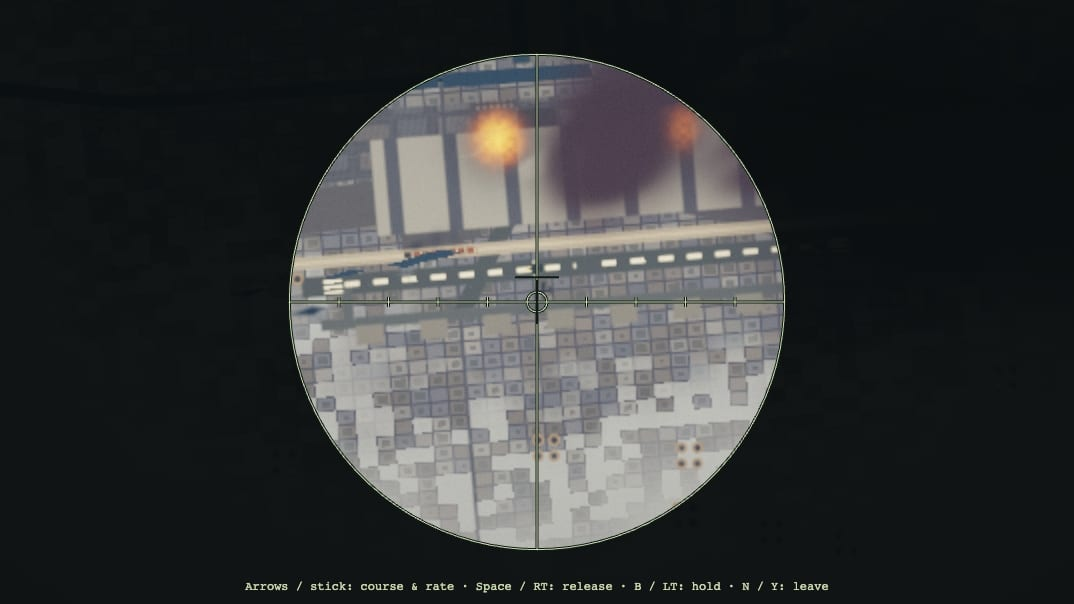
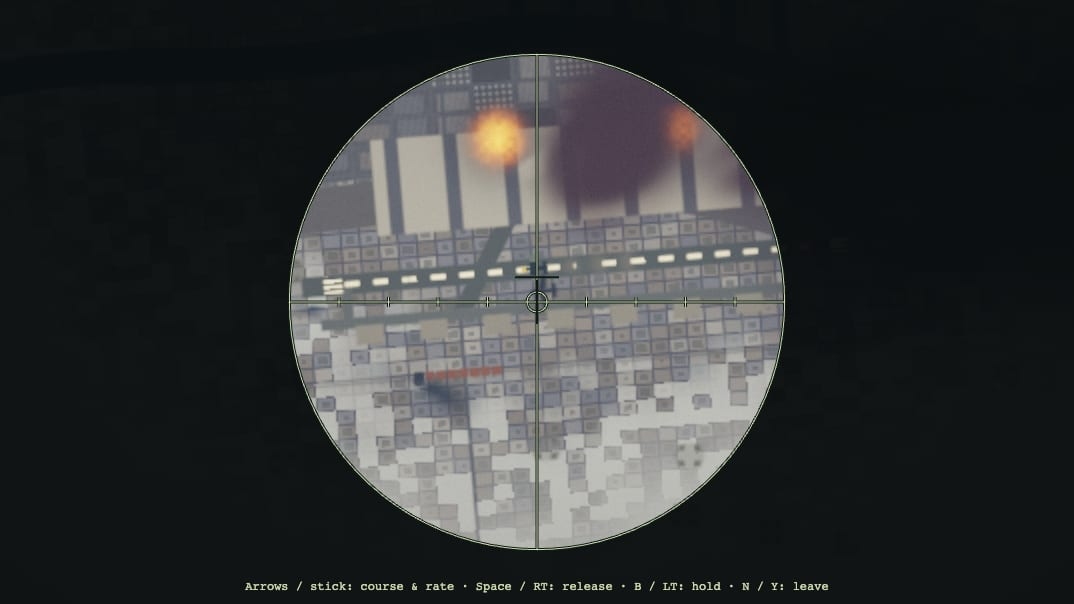
Resolve ground-war visual review issues
Darken and separate rail traffic, connect locomotive exhaust, improve takeoff silhouettes and dust, replace battery rings with earthworks, and restore continuous Low water. Refresh matched comparison shots and the goal 25 report.

diff --git a/src/render/GroundWar.ts b/src/render/GroundWar.ts
@@ -25,26 +25,30 @@ float warBox(vec2 p, vec2 halfSize, float fw) {
   return 1.0 - smoothstep(-fw, fw, max(d.x, d.y));
 }
 vec3 groundWarTraffic(vec2 uv, vec3 c, float fw, float dry) {
-  // Exaggerated ballast/car widths preserve distinct wagons at the Low sky resolution.
-  float rail = tBand(uv.y, -1070.0, -998.0, fw) * tBand(uv.x, -3000.0, 2800.0, fw) * dry;
-  c = mix(c, vec3(0.46, 0.40, 0.29), rail);
-  float tracks = tBand(abs(uv.y + 1034.0), 20.0, 25.0, fw);
-  c = mix(c, vec3(0.055), rail * tracks);
+  // A subdued service line outside the runway/taxiways, fading when sub-pixel.
+  float railDetail = 1.0 - smoothstep(20.0, 65.0, fw);
+  float rail = tBand(uv.y, -1820.0, -1780.0, fw) * tBand(uv.x, -2700.0, 2600.0, fw) * dry;
+  c = mix(c, c * 0.75 + vec3(0.018, 0.016, 0.013), rail * railDetail);
+  float tracks = tBand(abs(uv.y + 1800.0), 12.0, 16.0, fw);
+  c = mix(c, vec3(0.065, 0.06, 0.052), rail * tracks * railDetail);
   float tail = uFreight - uv.x;
-  float train = tBand(tail, 0.0, 460.0, fw) * tBand(uv.y, -1053.0, -1015.0, fw) * dry;
-  float wagons = tBand(mod(tail, 56.0), 5.0, 49.0, fw * 0.5);
-  vec3 car = mix(vec3(0.035, 0.028, 0.022), vec3(0.24, 0.085, 0.025), step(60.0, tail));
+  float train = tBand(tail, 0.0, 560.0, fw) * tBand(uv.y, -1828.0, -1772.0, fw) * dry;
+  float wagons = tBand(mod(tail, 70.0), 5.0, 62.0, fw * 0.4);
+  vec3 car = mix(vec3(0.025, 0.027, 0.025), vec3(0.17, 0.075, 0.035), step(72.0, tail));
   c = mix(c, car, train * wagons);
-  // Broad rolling soot trails the moving locomotive; keep the car gaps unobscured.
-  vec2 wind = warUV(uTgtWind);
-  vec2 smoke = uv - vec2(uFreight - 18.0, -1034.0);
-  float behind = -smoke.x;
-  float width = 18.0 + max(0.0, behind) * 0.20;
-  float drift = 40.0 + max(0.0, behind) * (0.36 + wind.y / 25.0);
-  float steam = exp(-pow((smoke.y - drift) / width, 2.0))
-    * tBand(behind, -20.0, 360.0, 30.0) * (1.0 - clamp(behind / 440.0, 0.0, 1.0));
-  steam *= 0.72 + 0.28 * sin(behind / 20.0 - uTgtClock * 2.0);
-  c = mix(c, vec3(0.045, 0.042, 0.037), steam * 0.9 * dry);
+  // Overlapping exhaust puffs grow and drift away from the track, clear of the runway.
+  // Keep the locomotive end narrow so its attachment reads at bombing altitude.
+  vec2 smoke = uv - vec2(uFreight - 18.0, -1800.0);
+  vec2 stack = (smoke - vec2(0.0, -18.0)) / vec2(24.0, 36.0);
+  float exhaust = exp(-dot(stack, stack) * 1.5);
+  for (int j = 0; j < 5; j++) {
+    float age = float(j) + fract(uTgtClock * 0.7);
+    vec2 center = vec2(-age * 65.0, -22.0 - age * 42.0);
+    vec2 q = (smoke - center) / vec2(40.0 + age * 23.0, 32.0 + age * 22.0);
+    float puff = exp(-dot(q, q) * 1.5) * (1.0 - age / 6.0);
+    exhaust += puff;
+  }
+  c = mix(c, vec3(0.035, 0.038, 0.035), min(exhaust, 1.0) * 0.95 * dry);
   if ((uTgtLook > 0.5 && uTgtLook < 1.5) || (uTgtLook > 2.5 && uTgtLook < 3.5)) {
     // Perimeter taxiway, dispersals and threshold bars remain readable through 7.6 km of air.
     float taxi = tBand(uv.y, -1465.0, -1395.0, fw) * tBand(uv.x, -1700.0, 1700.0, fw);
@@ -74,8 +78,8 @@ vec3 groundWarAircraft(vec2 rel, vec2 camRel, vec3 g, float fw, vec3 light) {
     float ratio = uCamAlt / max(100.0, uCamAlt - p.z);
     vec2 projected = camera + (p.xy - camera) * ratio;
     vec2 q = uv - projected;
-    // Seven-times recognition scale, with a nine-pixel minimum on the half-size Low sky.
-    float size = max(7.0, fw * 4.5 / 5.255);
+    // Recognition scale: preserve wing taper, fuselage and tail through the sky pass.
+    float size = max(18.0, fw * 6.0 / 5.255);
     float scale = size * ratio;
     q /= scale;
     float aa = fw / scale * 0.55;
@@ -83,7 +87,15 @@ vec3 groundWarAircraft(vec2 rel, vec2 camRel, vec3 g, float fw, vec3 light) {
     vec2 shadowUV = uv - p.xy + warUV(uSunDir.xz) * p.z / max(uSunDir.y, 0.15);
     float shadow = warFighter(shadowUV / size, fw / size + p.z * 0.0008);
     g *= 1.0 - shadow * p.w * 0.75;
-    vec3 paint = mix(vec3(0.035, 0.045, 0.028), vec3(0.42, 0.43, 0.33), step(2.5, abs(q.y)));
+    // Prop wash follows the accelerating roll; a short dust wake lingers after rotation.
+    float behind = p.x - uv.x;
+    float dustWidth = 18.0 + max(behind, 0.0) * 0.13;
+    float dustQ = (uv.y + 1185.0) / dustWidth;
+    float dust = exp(-dustQ * dustQ)
+      * tBand(behind, 55.0, 650.0, 60.0) * (1.0 - smoothstep(40.0, 350.0, p.z));
+    dust *= (0.6 + 0.4 * sin(behind * 0.035 + uTgtClock * 3.0)) * p.w;
+    g = mix(g, vec3(0.26, 0.235, 0.18) * light, dust * 0.6);
+    vec3 paint = mix(vec3(0.025, 0.035, 0.022), vec3(0.16, 0.18, 0.13), step(2.5, abs(q.y)));
     paint = mix(paint, vec3(0.75, 0.49, 0.045), step(2.8, q.x));
     g = mix(g, paint * light, silhouette * p.w);
   }

diff --git a/src/render/TargetGround.ts b/src/render/TargetGround.ts
@@ -55,7 +55,7 @@ uniform vec3 uImpBound;   // circle holding every impact's marks and pall: x, z,
 // city's water as a signed side distance (m) with its half-width (0 = no mapped water: the
 // procedural river below)
 float tgtLand = 1.0, tgtRiverV = 0.0, tgtRiverW = 0.0;   // tgtRiverW < 0: a harbour shore (no river band)
-float tgtDry = 1.0;
+float tgtDry = 1.0, tgtEffectLand = 1.0;
 float tgtOwnTown = 0.0;   // 1: the map draws the city's streets itself (no block grid here)
 
 // 1 inside [a, b], antialiased over w metres
@@ -142,7 +142,7 @@ vec3 tCity(vec2 rel, vec3 base, float fw) {
   }
   // the river, wide and dark, fading out well beyond the city
   float rw = tgtRiverW > 0.0 ? tgtRiverW : tgtRiverW < 0.0 ? 0.0 : 110.0 * (1.0 - smoothstep(1.5, 2.1, length(rel) / R));
-  water = max(water, 1.0 - smoothstep(rw - fw * 0.5, rw + fw * 0.5, abs(vr)));
+  if (rw > 0.0) water = max(water, 1.0 - smoothstep(rw - fw * 0.5, rw + fw * 0.5, abs(vr)));
   vec3 wc = vec3(0.03, 0.055, 0.07);
   // bridges stay dry
   float bridge = max(tBand(u, -712.0, -690.0, fw), tBand(u, 820.0, 842.0, fw)) * step(abs(vr), rw + 20.0);
@@ -173,23 +173,29 @@ vec3 tCity(vec2 rel, vec3 base, float fw) {
       c = mix(c, mix(vec3(0.065, 0.06, 0.05), vec3(0.4, 0.4, 0.36), tanks), zone * dry);
     }
   }
-  tgtDry = tgtLand * (1.0 - water * (1.0 - bridge));
+  tgtDry = tgtLand * tgtEffectLand * (1.0 - water * (1.0 - bridge));
   // Four-gun revetments identify the flashing batteries between salvos.
   float rr = length(rel);
   if (rr > R * 0.45 && rr < R * 2.1) {
     vec2 bc = floor(rel / 520.0);
     if (h2(bc + 3.7) < 0.16) {
       vec2 site = (bc + 0.3 + 0.4 * vec2(h2(bc + 1.3), h2(bc + 7.1))) * 520.0;
-      vec2 q = abs(rel - site) - 50.0;
-      float pit = length(q);
+      vec2 local = rel - site;
+      // Joined earthworks with square open revetments and a shared soil apron.
       float siteDetail = 1.0 - smoothstep(16.0, 28.0, fw);
-      float earth = tBand(pit, 20.0, 37.0, fw * 0.65);
-      float gun = 1.0 - smoothstep(10.0, 18.0 + fw, pit);
-      c = mix(c, vec3(0.32, 0.23, 0.12), earth * tgtDry * siteDetail);
-      c = mix(c, vec3(0.035), gun * tgtDry * siteDetail * 0.9);
+      float apron = 1.0 - smoothstep(65.0, 115.0, length(local * vec2(0.9, 1.1)));
+      c = mix(c, vec3(0.13, 0.125, 0.095), apron * tgtDry * siteDetail * 0.45);
+      vec2 q = abs(local) - 50.0;
+      q.x += q.y * 0.18;
+      float earth = warBox(q, vec2(27.0, 23.0), fw);
+      float pit = warBox(q + vec2(3.0, 0.0), vec2(14.0, 13.0), fw);
+      // Leave an entrance on one side and use a neutral soil value for the bank.
+      earth *= smoothstep(-30.0, -12.0, q.x);
+      c = mix(c, vec3(0.15, 0.145, 0.115), earth * tgtDry * siteDetail * 0.75);
+      c = mix(c, vec3(0.075, 0.078, 0.06), pit * tgtDry * siteDetail * 0.65);
     }
   }
-  return groundWarTraffic(uv, c, fw, tgtLand * (1.0 - water));
+  return groundWarTraffic(uv, c, fw, tgtLand * tgtEffectLand * (1.0 - water));
 }
 
 // The bombs' work: returns lit ground colour with flashes, fires, scars and pall.

diff --git a/src/render/FarTerrain.ts b/src/render/FarTerrain.ts
@@ -267,7 +267,7 @@ vec3 farWater(vec3 base, vec2 p, vec2 xz, float rough, float fw, float shadow) {
 
 vec3 terrain(vec2 xz, float dist) {
   farSpec = vec3(0.0);
-  tgtLand = 1.0; tgtRiverW = 0.0; tgtRiverV = 0.0; tgtOwnTown = 0.0;
+  tgtEffectLand = 1.0; tgtLand = 1.0; tgtRiverW = 0.0; tgtRiverV = 0.0; tgtOwnTown = 0.0;
   float season = uFarSeason;
   vec2 rel = xz - uFarFocus;
   float fw = max(uFarFw * dist / max(uCamAlt / dist, 0.06), 0.3);   // footprint (m), stretched at grazing angles
@@ -286,20 +286,18 @@ vec3 terrain(vec2 xz, float dist) {
     if (inR > 0.0) {
       vec4 L2 = texture2D(tFarLines, uv);
       if (uFarQuality < 0.5) {
-        // The early Low return must still publish its coast/river mask to target effects.
-        // Reuse the one existing line sample; no cover/relief or extra texture reads.
+        // Retain Low's continuous procedural city river and original coast appearance.
+        // Publishing per-texel mapped river widths here switched river models at tile
+        // coverage boundaries, breaking the city river into blobs. The mapped mask is
+        // only for effects; it must not repaint Low's terrain or draw distant SDF spurs.
         vec4 lowLines = mix(Ln, L2, inR);
         float lowLand = smoothstep(0.495, 0.505, lowLines.r);
         float lowSide = (lowLines.g * 2.0 - 1.0) * ${GRID.SIDE_RANGE}.0;
         float lowWidth = lowLines.b * 510.0;
-        float lowSpur = step(abs(dFdx(lowSide)) + abs(dFdy(lowSide)), fw * 3.0 + 4.0);
-        float lowRiver = lowWidth > 0.5 ? farLine(lowSide, lowWidth, fw) * lowSpur : 0.0;
-        tgtLand = lowLand * (1.0 - lowRiver);
-        if (uFarCityWater > 1.5) tgtRiverW = -1.0;
-        else if (uFarCityWater > 0.5 && lowWidth > 0.5 && abs(lowSide) < 1500.0) {
-          tgtRiverV = lowSide; tgtRiverW = max(lowWidth, 45.0);
-        }
-        return mix(water, grass, tgtLand);
+        float lowRiver = lowWidth > 0.5
+          ? 1.0 - smoothstep(lowWidth, lowWidth + fw, abs(lowSide)) : 0.0;
+        tgtEffectLand = lowLand * (1.0 - lowRiver);
+        return mix(water, grass, lowLand);
       }
       Ln = mix(Ln, L2, inR);
       Cv = mix(Cv, texture2D(tFarCover, uv), inR);

diff --git a/docs/phase11/reports/25.md b/docs/phase11/reports/25.md
@@ -1,50 +1,58 @@
 # Phase 11 goal 25 — The ground war below
 
-Branch: `phase11/25-ground-war`. Dev server: **5325**. Review fixes: 15 October 2026.
+Branch: `phase11/25-ground-war`. Dev server: **5325**. Second review fixes: 15 October 2026.
 
-## Review fixes and picture evidence
+## Rejection fixes
 
-- **Airfield:** dark runway and taxiways, wider pale centre/threshold markings, and dispersal pads now separate from the snow in the [matched airfield comparison](../shots/25/compare-airfield-rail.jpg).
-- **Fighter and shadow:** enlarged Fw 190 planform (7× recognition scale, minimum nine sky pixels), contrasting wing panels/yellow nose, and a separate aircraft-shaped shadow projected along the sun direction. The camera remains at **7,620 m**; aircraft size is deliberately exaggerated for recognition.
-- **Moving train:** wider rust-coloured wagons separated by gaps, a dark locomotive, pale ballast and a rolling soot trail. The [two-frame native-resolution crop](../../phase6/shots/25-review/motion-detail.jpg) shows the train advancing and the fighter climbing over two seconds. These are pictures of the rendered movement, in addition to the numeric assertions.
-- **Required in-game close view:** the production Norden camera and reticle, 28° FOV, in a staged formation pass over the airfield. [Full view (1280 px)](../../phase6/shots/25-review/after-bombsight-moving-full.jpg) and [unscaled crop from the 1920×1080 render](../../phase6/shots/25-review/after-bombsight-moving-crop.jpg) show the departing fighter, offset shadow, freight/exhaust and flashing four-gun earthwork together. [Same LIVE camera](../shots/25/compare-bombsight-moving.jpg). In the crop: freight/exhaust upper left; fighter just left of the upper reticle mark; shadow below/right; flashing four-pit battery at the bottom. No lowered camera, extra zoom or screenshot-drawn scenery.
-- **Batteries:** larger, brighter, longer muzzle flashes with larger four-gun pits. Site density is reduced; pits fade when their detail is unresolved, avoiding the earlier dark confetti on Low. [Burning city](../shots/25/compare-burning-city.jpg) and [wind columns](../shots/25/compare-wind-columns.jpg) show scattered land flashes again. The old airfield fixture cleared the flak ramp and never advanced it; it also restarted the target clock at capture. Both fixture errors are fixed and asserted.
-- **Water:** the High land filter was valid; its lost flashes were chiefly a scale/exposure problem and the fixture reset above. Low did have a mask bug: its terrain early return never supplied coast/river masks. It now supplies them from the existing line sample. Battery flashes, impact fires/scars and pathfinder glow respect mapped/procedural water. [Walking strikes](../shots/25/compare-walking-strikes.jpg) and [release](../shots/25/compare-bomb-release.jpg) retain the harbour-edge target strikes without painting fire across water.
-- **Low baseline:** [LIVE Low left / branch Low right](../shots/25/compare-low-airfield-rail.jpg), identical camera and viewport. Both render at **1074×604** (0.65 MP); the existing Low blockiness, soft clouds and simplified city are present on main. The branch's added dark battery specks were real, so their density/detail filtering was corrected rather than attributed to main. [Low close view](../../phase6/shots/25-review/low-bombsight-moving-full.jpg) retains aircraft, train and batteries.
+1. **Bright city stripe:** replaced the pale ballast with a narrow, terrain-relative dark service line that fades with pixel footprint. Moved the line outside the runway and taxiways. The release, walking-strikes and burning-city cameras are unchanged.
+2. **Battery stickers:** removed circular ochre rings. Batteries now use subdued soil aprons and open, squared revetments with low-contrast interiors. Only the existing muzzle flashes emit light; distant earthworks still fade out.
+3. **Unreadable takeoff:** increased the tapered fighter silhouette to an explicit 18× recognition scale, retaining the tailplane, contrasting nose and sun-projected shadow. Added a dissipating prop-wash/dust wake along the accelerating runway roll and initial climb. Three staggered sortie slots remain deterministic.
+4. **Train hidden at runway:** moved freight to a separate service line beyond the dispersals, increased wagon separation/width, and replaced the low trailing smear with overlapping locomotive exhaust puffs that expand away from the railway. Exhaust remains attached to the moving engine.
+5. **Low water artifacts:** restored Low's original continuous procedural city river and coast rendering. The rejected implementation switched between mapped and procedural rivers at mapped-width boundaries, creating breaks; its mapped river SDF also repainted thin spurs across Low terrain. Mapped water now supplies a separate effects-only mask, without changing Low's water drawing. A zero-width target river no longer draws an antialiased hairline on harbour layouts.
+6. **Accepted smoke:** city soot, wind bending, plume growth and city fire rendering are unchanged.
 
-The previously accepted dark, wind-bent soot columns and burning works remain. Train/sortie schedules, real formation releases, walking impacts and plume growth remain pooled and deterministic.
+## Same-view evidence
+
+All comparisons use the existing seven fixtures, unchanged camera positions/FOV, altitude **7,620 m**, clocks, weather, seed and viewport. LIVE main is left; this branch is right. The saved LIVE baseline is still current: the live HTML was rechecked against `assets/index-BOGsoLtY.js` before this recapture; only branch frames need rerendering.
+
+- [Bomb release](../shots/25/compare-bomb-release.jpg), [walking strikes](../shots/25/compare-walking-strikes.jpg), [burning city](../shots/25/compare-burning-city.jpg), [wind columns](../shots/25/compare-wind-columns.jpg).
+- [Airfield and rail](../shots/25/compare-airfield-rail.jpg), [bombsight takeoff](../shots/25/compare-bombsight-takeoff.jpg), [bombsight moving](../shots/25/compare-bombsight-moving.jpg).
+- [LIVE Low / branch Low](../shots/25/compare-low-airfield-rail.jpg).
+- [Native-resolution motion crops, two seconds apart](../../phase6/shots/25-review/motion-detail.jpg), [full production bombsight view](../../phase6/shots/25-review/after-bombsight-moving-full.jpg), [Low bombsight](../../phase6/shots/25-review/low-bombsight-moving-full.jpg). These are rendered game images, without screenshot-drawn scenery or a lowered/extra-zoomed camera.
+- [Capture metadata and timings](../shots/25/comparison.json).
 
 ## Files and hooks
 
-- `src/render/GroundWar.ts:27`: rail, freight/exhaust and airfield markings; `:63`: aircraft silhouette, contrast and sun-projected shadow.
-- `src/render/TargetGround.ts:176`: shared dry-ground mask and filtered earthworks; `:204`: land impact effects; `:271`: battery flashes.
-- `src/render/FarTerrain.ts:288`: Low publishes coast/river masks before its early return; no extra texture lookup.
-- Existing hooks: `src/world/TargetArea.ts:295` synchronises ground activity, `:337` plume profiles. `src/world/GroundWarMath.ts` owns the schedules; `src/render/TargetSmoke.ts` owns the accepted pooled smoke.
-- `tools/ground_war_capture.mjs`: seven matched High/Low views on LIVE and branch, two production bombsight frames, full-size JPEGs/crops, explicit barrage/clock/camera checks, movement/reset and shader-program checks.
+- `src/render/GroundWar.ts:27` (traffic), `:67` (silhouette), `:90` (prop wash): terrain-relative railway, separated freight and locomotive exhaust; aircraft silhouette and prop-wash wake.
+- `src/render/TargetGround.ts:145`, `:176`, `:184`: neutral revetments, separate effects land mask and zero-width river guard.
+- `src/render/FarTerrain.ts:289`: Low keeps its baseline water rendering and passes mapped water only to the effects mask.
+- Existing hooks remain: `src/world/TargetArea.ts:295` / `:337` synchronises activity and plume profiles; `src/world/GroundWarMath.ts` owns movement schedules; `src/render/TargetSmoke.ts` owns pooled smoke.
+- `tools/ground_war_capture.mjs`: unchanged matched High/Low views, production bombsight crops, movement/reset and shader-program assertions.
 
-No Game/World/UI hooks, new player text, radio, dependencies, textures, draw calls or runtime shader variants added by this review fix. Ground aircraft and trains remain scenery, without combat AI, collisions or score.
+No new player strings, radio, dependencies, assets, draw calls, runtime shader variants, or Game/World/UI hooks. Ground aircraft and trains remain altitude scenery without combat AI, collisions or scoring. Their scale is intentionally exaggerated; they are not close-range models.
 
 ## Verification
 
 - `npx tsc --noEmit`: passed.
 - `npx vitest run tests/groundWar.test.ts tests/farTerrain.test.ts tests/visualRig.test.ts tests/visualCapture.test.ts`: **16 passed**.
-- Captures: bundled Chromium headless shell only, seed 19431008, fixed sun/cloud/wind, 18 bombers, matching target and camera poses. [Complete capture metadata](../shots/25/comparison.json) records LIVE bundle URLs, clocks, presets, render sizes and timings.
-- Runtime: train moves 26 m and fighter climbs 46 m over two seconds; target coordinates remain fixed; clear resets bombs, target and sorties. Barrage stays active in every fixture; airfield clock remains continuous. No page/shader errors or shader recompiles in measured frames.
-- Full build/typecheck/test shards run in [task-branch CI](https://github.com/MohamadHazeem/sky-war-shooter-3d/actions?query=branch%3Aphase11%2F25-ground-war), following the repository's CI-first rule.
+- Bundled Chromium headless-shell captures: all seven High and seven Low fixtures passed camera/clock/barrage assertions, without page/shader errors or shader recompiles.
+- Runtime movement/reset assertions passed: freight advances 26 m and fighter altitude rises 46 m over two seconds; target coordinates stay fixed; clear resets bombs, target and sorties.
+- Inspected all matched views and native bombsight crops: no bright ballast stripe, no ochre battery rings, recognisable fighter/tail/shadow, a separate freight line with connected exhaust, and continuous Low water matching the baseline.
+- Full build/typecheck/test shards: [task-branch GitHub Actions](https://github.com/MohamadHazeem/sky-war-shooter-3d/actions?query=branch%3Aphase11%2F25-ground-war). CI is the full-check gate for this revision.
 
 Final mean frame times (ms):
 
 | View | LIVE High | Branch High | LIVE Low | Branch Low |
 |---|---:|---:|---:|---:|
-| bomb-release | 3.2 | 5.0 | 1.5 | 1.0 |
-| walking-strikes | 3.2 | 4.7 | 1.3 | 1.1 |
-| burning-city | 3.2 | 4.7 | 1.4 | 1.3 |
-| wind-columns | 8.3 | 8.2 | 2.6 | 2.7 |
-| airfield-rail | 3.4 | 5.7 | 0.8 | 1.1 |
-| bombsight-takeoff | 3.5 | 3.4 | 0.9 | 1.3 |
-| bombsight-moving | 3.3 | 4.4 | 0.9 | 1.1 |
+| bomb-release | 3.2 | 4.8 | 1.5 | 1.3 |
+| walking-strikes | 3.2 | 4.6 | 1.3 | 1.0 |
+| burning-city | 3.2 | 4.8 | 1.4 | 1.2 |
+| wind-columns | 8.3 | 10.1 | 2.6 | 2.8 |
+| airfield-rail | 3.4 | 4.7 | 0.8 | 1.2 |
+| bombsight-takeoff | 3.5 | 5.2 | 0.9 | 1.2 |
+| bombsight-moving | 3.3 | 4.6 | 0.9 | 1.0 |
 
-All measured branch views meet 11 ms High / 6 ms Low. Samples are 30 frozen complete renders per view with blocking one-pixel GPU readback, not whole-mission frame-time guarantees.
+All branch means remain below **11 ms High / 6 ms Low**. Each sample is 30 frozen complete renders with a blocking GPU readback; these are fixture measurements, not whole-mission guarantees. High renders at 1920×1080; Low at 1074×604.
 
 Reproduce with Vite on 5325:
 
@@ -52,4 +60,4 @@ Reproduce with Vite on 5325:
 PLAYWRIGHT_EXECUTABLE="$HOME/Library/Caches/ms-playwright/chromium_headless_shell-1243/chrome-headless-shell-mac-arm64/chrome-headless-shell" tools/heavy.sh node tools/ground_war_capture.mjs
 ```
 
-No deployment or main-branch push. Remaining limitation: these intentionally enlarged analytic silhouettes are for altitude views, not close-range aircraft/rail models.
+No deployment or main-branch push.
